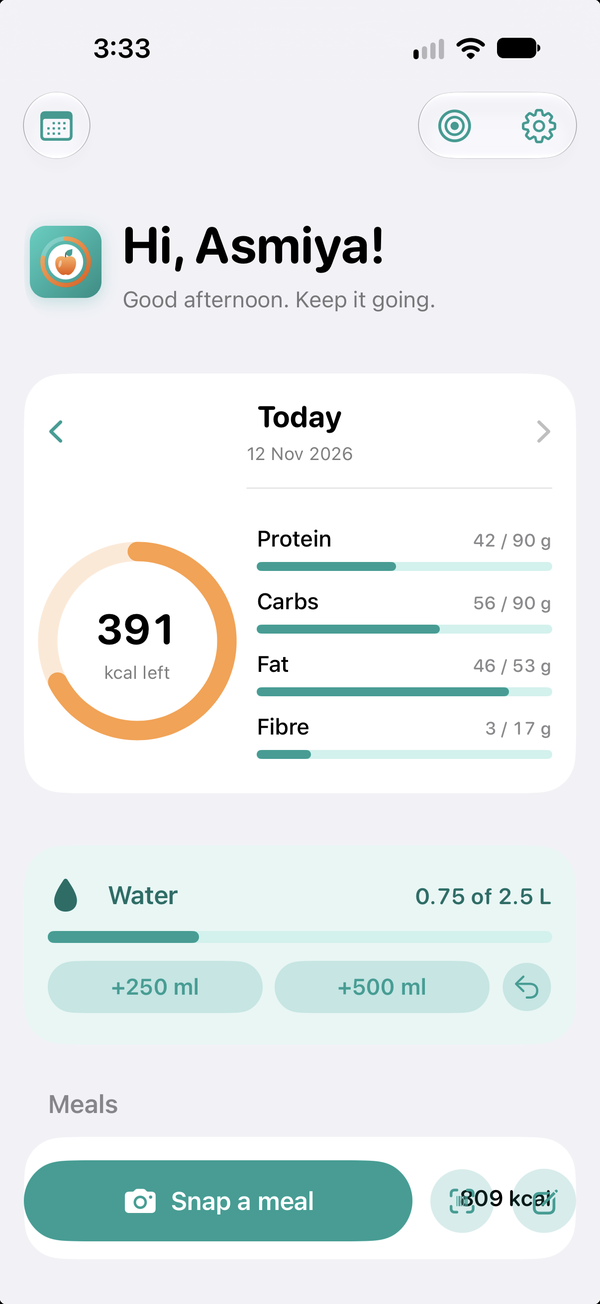
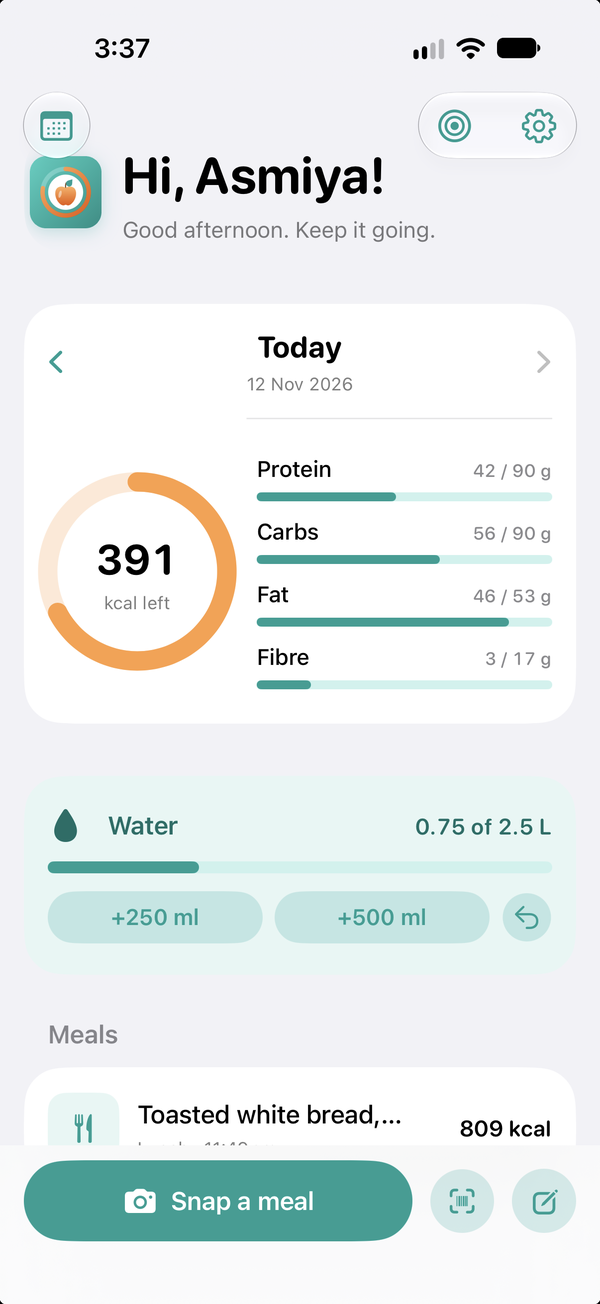
Speed up photo handling, update Today screenshot
- Decode photos once in the background at screen size instead
  of the full photo on every redraw (capture, review, meal rows)
- Cache meal thumbnails in memory
- Shrink the photo for upload off the main thread
- Replace the Today screenshot with the updated one

diff --git a/FoodLogger/Capture/CaptureView.swift b/FoodLogger/Capture/CaptureView.swift
@@ -1,3 +1,4 @@
+import CoreGraphics
 import SwiftUI
 import SwiftData
 import PhotosUI
@@ -11,6 +12,8 @@ struct CaptureView: View {
     @Query(sort: \UserFood.lastUsed, order: .reverse) private var myFoods: [UserFood]
 
     @State private var photoData: Data?
+    /// Downsized copy of the photo for the screen; the full photo is only used for upload.
+    @State private var photoPreview: CGImage?
     @State private var libraryItem: PhotosPickerItem?
     @State private var showingCamera = false
     @State private var recorder = SpeechRecorder()
@@ -73,6 +76,14 @@ struct CaptureView: View {
                         libraryItem = nil
                     }
                 }
+                // Keyed on size so SwiftUI doesn't compare megabytes of photo on every redraw.
+                .task(id: photoData?.count) {
+                    guard let data = photoData else { photoPreview = nil; return }
+                    photoPreview = nil
+                    photoPreview = await Task.detached(priority: .userInitiated) {
+                        DecodedImage(ImagePrep.thumbnail(data, maxPixelSize: 900))
+                    }.value.image
+                }
                 .onChange(of: recorder.transcript) { _, text in
                     if recorder.isRecording { transcript = text }
                 }
@@ -84,13 +95,18 @@ struct CaptureView: View {
 
     private var photoSection: some View {
         Section("Photo") {
-            if let photoData, let image = Image(imageData: photoData) {
-                image
-                    .resizable()
-                    .scaledToFit()
-                    .frame(maxHeight: 260)
-                    .frame(maxWidth: .infinity)
-                    .clipShape(RoundedRectangle(cornerRadius: 12))
+            if photoData != nil {
+                if let photoPreview {
+                    Image(decorative: photoPreview, scale: 1)
+                        .resizable()
+                        .scaledToFit()
+                        .frame(maxHeight: 260)
+                        .frame(maxWidth: .infinity)
+                        .clipShape(RoundedRectangle(cornerRadius: 12))
+                } else {
+                    ProgressView()
+                        .frame(maxWidth: .infinity, minHeight: 160)
+                }
                 Button("Remove photo", systemImage: "xmark", role: .destructive) {
                     self.photoData = nil
                 }
@@ -208,7 +224,10 @@ struct CaptureView: View {
         progress = ""
         defer { isAnalysing = false }
 
-        let upload = photoData.flatMap { ImagePrep.jpegForUpload($0) }
+        let original = photoData
+        let upload = await Task.detached(priority: .userInitiated) {
+            original.flatMap { ImagePrep.jpegForUpload($0) }
+        }.value
         let spoken = transcript
         let parser = ClaudeMealParser(
             apiKey: key,

diff --git a/FoodLogger/Today/TodayComponents.swift b/FoodLogger/Today/TodayComponents.swift
@@ -1,3 +1,5 @@
+import CoreGraphics
+import SwiftData
 import SwiftUI
 
 /// Ring showing energy left (or over) against the daily goal.
@@ -148,22 +150,50 @@ struct MealRow: View {
         .contentShape(Rectangle())
     }
 
-    @ViewBuilder
     private var thumbnail: some View {
-        if let data = meal.photo, let image = Image(imageData: data) {
-            image
-                .resizable()
-                .scaledToFill()
-                .frame(width: 48, height: 48)
-                .clipShape(RoundedRectangle(cornerRadius: 12))
-        } else {
-            RoundedRectangle(cornerRadius: 12)
-                .fill(Theme.tint)
-                .frame(width: 48, height: 48)
-                .overlay {
-                    Image(systemName: "fork.knife")
-                        .foregroundStyle(Theme.turquoise)
-                }
+        MealThumbnail(meal: meal)
+    }
+}
+
+/// A meal's photo as a small, cached thumbnail (decoded off the main thread).
+struct MealThumbnail: View {
+    let meal: Meal
+    @State private var image: CGImage?
+    @State private var checked = false
+
+    init(meal: Meal) {
+        self.meal = meal
+        let cached = ThumbnailCache.cached(for: meal)
+        _image = State(initialValue: cached)
+        _checked = State(initialValue: cached != nil)
+    }
+
+    var body: some View {
+        Group {
+            if let image {
+                Image(decorative: image, scale: 1)
+                    .resizable()
+                    .scaledToFill()
+                    .frame(width: 48, height: 48)
+                    .clipShape(RoundedRectangle(cornerRadius: 12))
+            } else {
+                placeholder
+            }
         }
+        .task(id: meal.persistentModelID) {
+            guard !checked else { return }
+            image = await ThumbnailCache.thumbnail(for: meal)
+            checked = true
+        }
+    }
+
+    private var placeholder: some View {
+        RoundedRectangle(cornerRadius: 12)
+            .fill(Theme.tint)
+            .frame(width: 48, height: 48)
+            .overlay {
+                Image(systemName: "fork.knife")
+                    .foregroundStyle(Theme.turquoise)
+            }
     }
 }

diff --git a/FoodLogger/Logging/MealEditorView.swift b/FoodLogger/Logging/MealEditorView.swift
@@ -1,3 +1,4 @@
+import CoreGraphics
 import SwiftUI
 import SwiftData
 
@@ -13,6 +14,8 @@ struct MealEditorView: View {
     /// From photo + voice capture (new meals only).
     private let photo: Data?
     private let transcript: String
+    /// Decoded once, so typing in the form doesn't re-decode the photo.
+    private let photoThumbnail: CGImage?
 
     @State private var timestamp: Date
     @State private var mealType: MealType
@@ -29,6 +32,7 @@ struct MealEditorView: View {
         self.meal = meal
         self.photo = meal?.photo ?? photo
         self.transcript = meal?.transcript ?? transcript
+        self.photoThumbnail = self.photo.flatMap { ImagePrep.thumbnail($0, maxPixelSize: 216) }
         let time = meal?.timestamp ?? defaultDate
         _timestamp = State(initialValue: time)
         _mealType = State(initialValue: meal?.mealType ?? MealType.inferred(from: time))
@@ -72,8 +76,8 @@ struct MealEditorView: View {
                 if photo != nil || !transcript.isEmpty {
                     Section {
                         HStack(alignment: .top, spacing: 12) {
-                            if let photo, let image = Image(imageData: photo) {
-                                image
+                            if let photoThumbnail {
+                                Image(decorative: photoThumbnail, scale: 1)
                                     .resizable()
                                     .scaledToFill()
                                     .frame(width: 72, height: 72)

diff --git a/FoodLogger/Capture/ImagePrep.swift b/FoodLogger/Capture/ImagePrep.swift
@@ -1,10 +1,29 @@
+import CoreGraphics
 import Foundation
 import ImageIO
 import UniformTypeIdentifiers
 
+/// Carries a decoded image back from a background task (CGImage is immutable, so this is safe).
+nonisolated struct DecodedImage: @unchecked Sendable {
+    let image: CGImage?
+    init(_ image: CGImage?) { self.image = image }
+}
+
 /// Shrinks a photo before it's sent to Claude and stored (about 1024 px, JPEG).
 /// Works the same on iPhone, iPad and Mac.
 nonisolated enum ImagePrep {
+    /// A small decoded image for showing on screen. Much cheaper than decoding the full photo.
+    static func thumbnail(_ data: Data, maxPixelSize: Int) -> CGImage? {
+        guard let source = CGImageSourceCreateWithData(data as CFData, nil) else { return nil }
+        let options: [CFString: Any] = [
+            kCGImageSourceCreateThumbnailFromImageAlways: true,
+            kCGImageSourceCreateThumbnailWithTransform: true,
+            kCGImageSourceShouldCacheImmediately: true,   // decode now, not while drawing
+            kCGImageSourceThumbnailMaxPixelSize: maxPixelSize,
+        ]
+        return CGImageSourceCreateThumbnailAtIndex(source, 0, options as CFDictionary)
+    }
+
     static func jpegForUpload(_ data: Data, maxPixelSize: Int = 1024, quality: Double = 0.7) -> Data? {
         guard let source = CGImageSourceCreateWithData(data as CFData, nil) else { return nil }
         let options: [CFString: Any] = [

diff --git a/FoodLogger/Today/ThumbnailCache.swift b/FoodLogger/Today/ThumbnailCache.swift
@@ -1,0 +1,33 @@
+import CoreGraphics
+import Foundation
+import SwiftData
+
+/// Small decoded meal photos kept in memory, so lists don't decode full photos on every redraw.
+/// A meal's photo never changes after it's saved, so the meal's ID is a safe key.
+enum ThumbnailCache {
+    private static let cache: NSCache<NSString, CGImage> = {
+        let cache = NSCache<NSString, CGImage>()
+        cache.countLimit = 300
+        return cache
+    }()
+
+    private static func key(for meal: Meal) -> NSString {
+        String(describing: meal.persistentModelID) as NSString
+    }
+
+    static func cached(for meal: Meal) -> CGImage? {
+        cache.object(forKey: key(for: meal))
+    }
+
+    /// Returns the thumbnail, decoding it in the background the first time.
+    static func thumbnail(for meal: Meal) async -> CGImage? {
+        let key = key(for: meal)
+        if let hit = cache.object(forKey: key) { return hit }
+        guard let data = meal.photo else { return nil }
+        let image = await Task.detached(priority: .userInitiated) {
+            DecodedImage(ImagePrep.thumbnail(data, maxPixelSize: 144))   // 48 pt at 3x
+        }.value.image
+        if let image { cache.setObject(image, forKey: key) }
+        return image
+    }
+}
